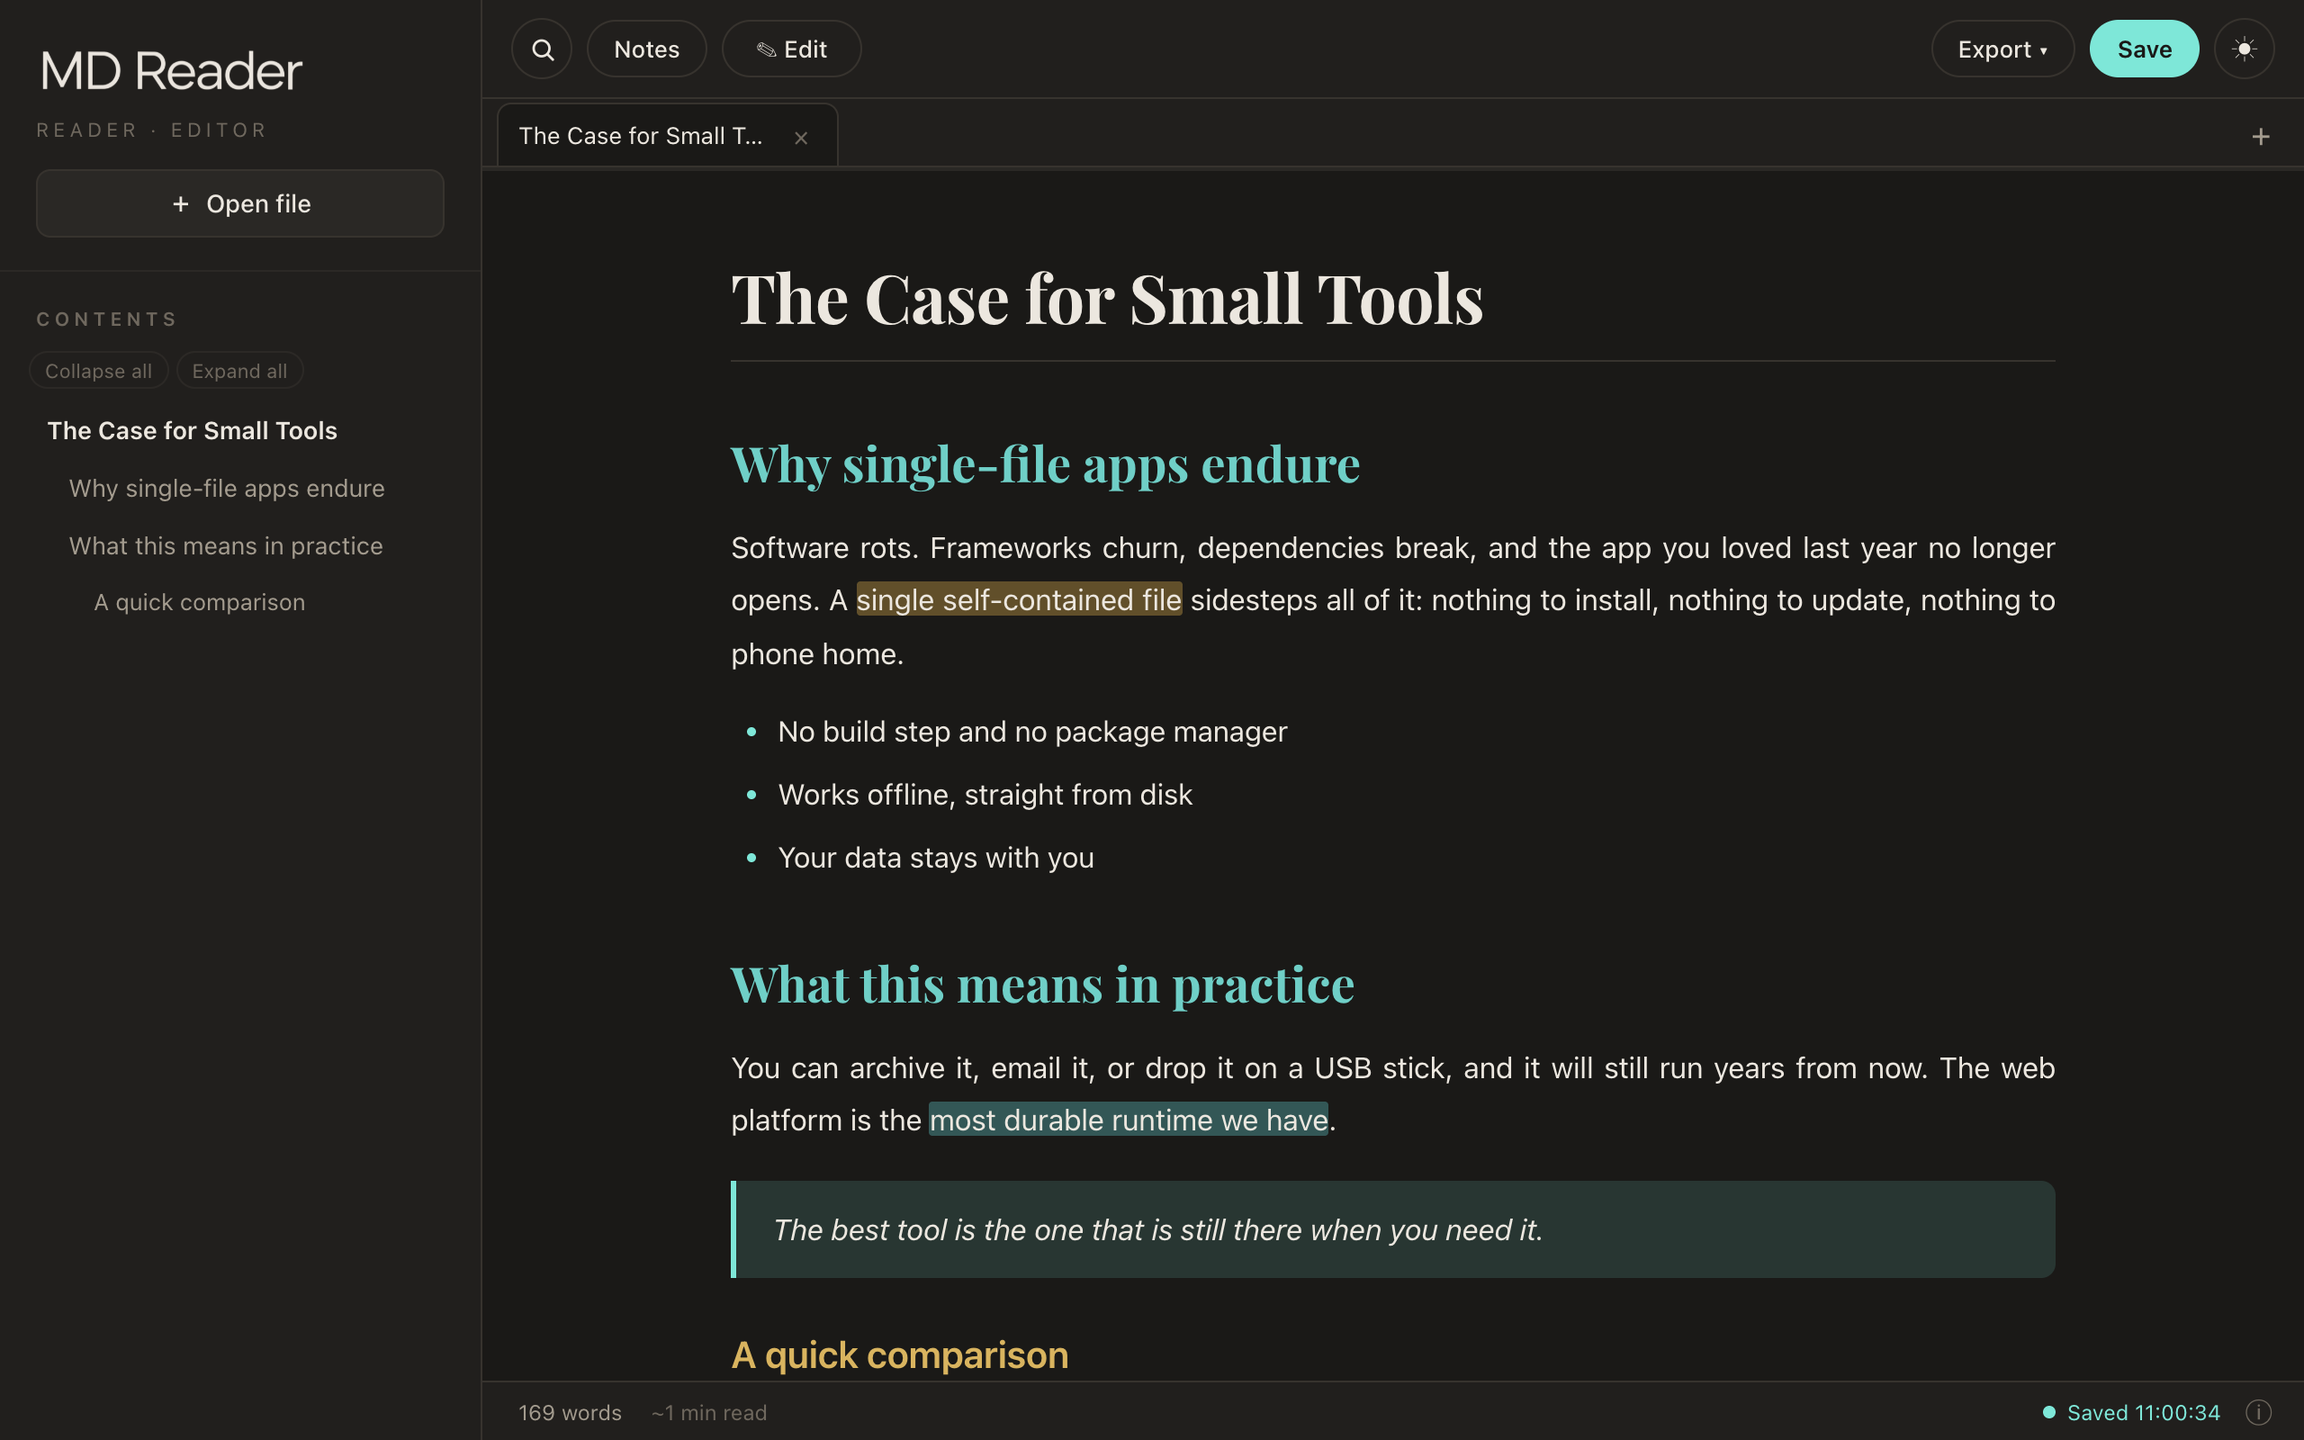
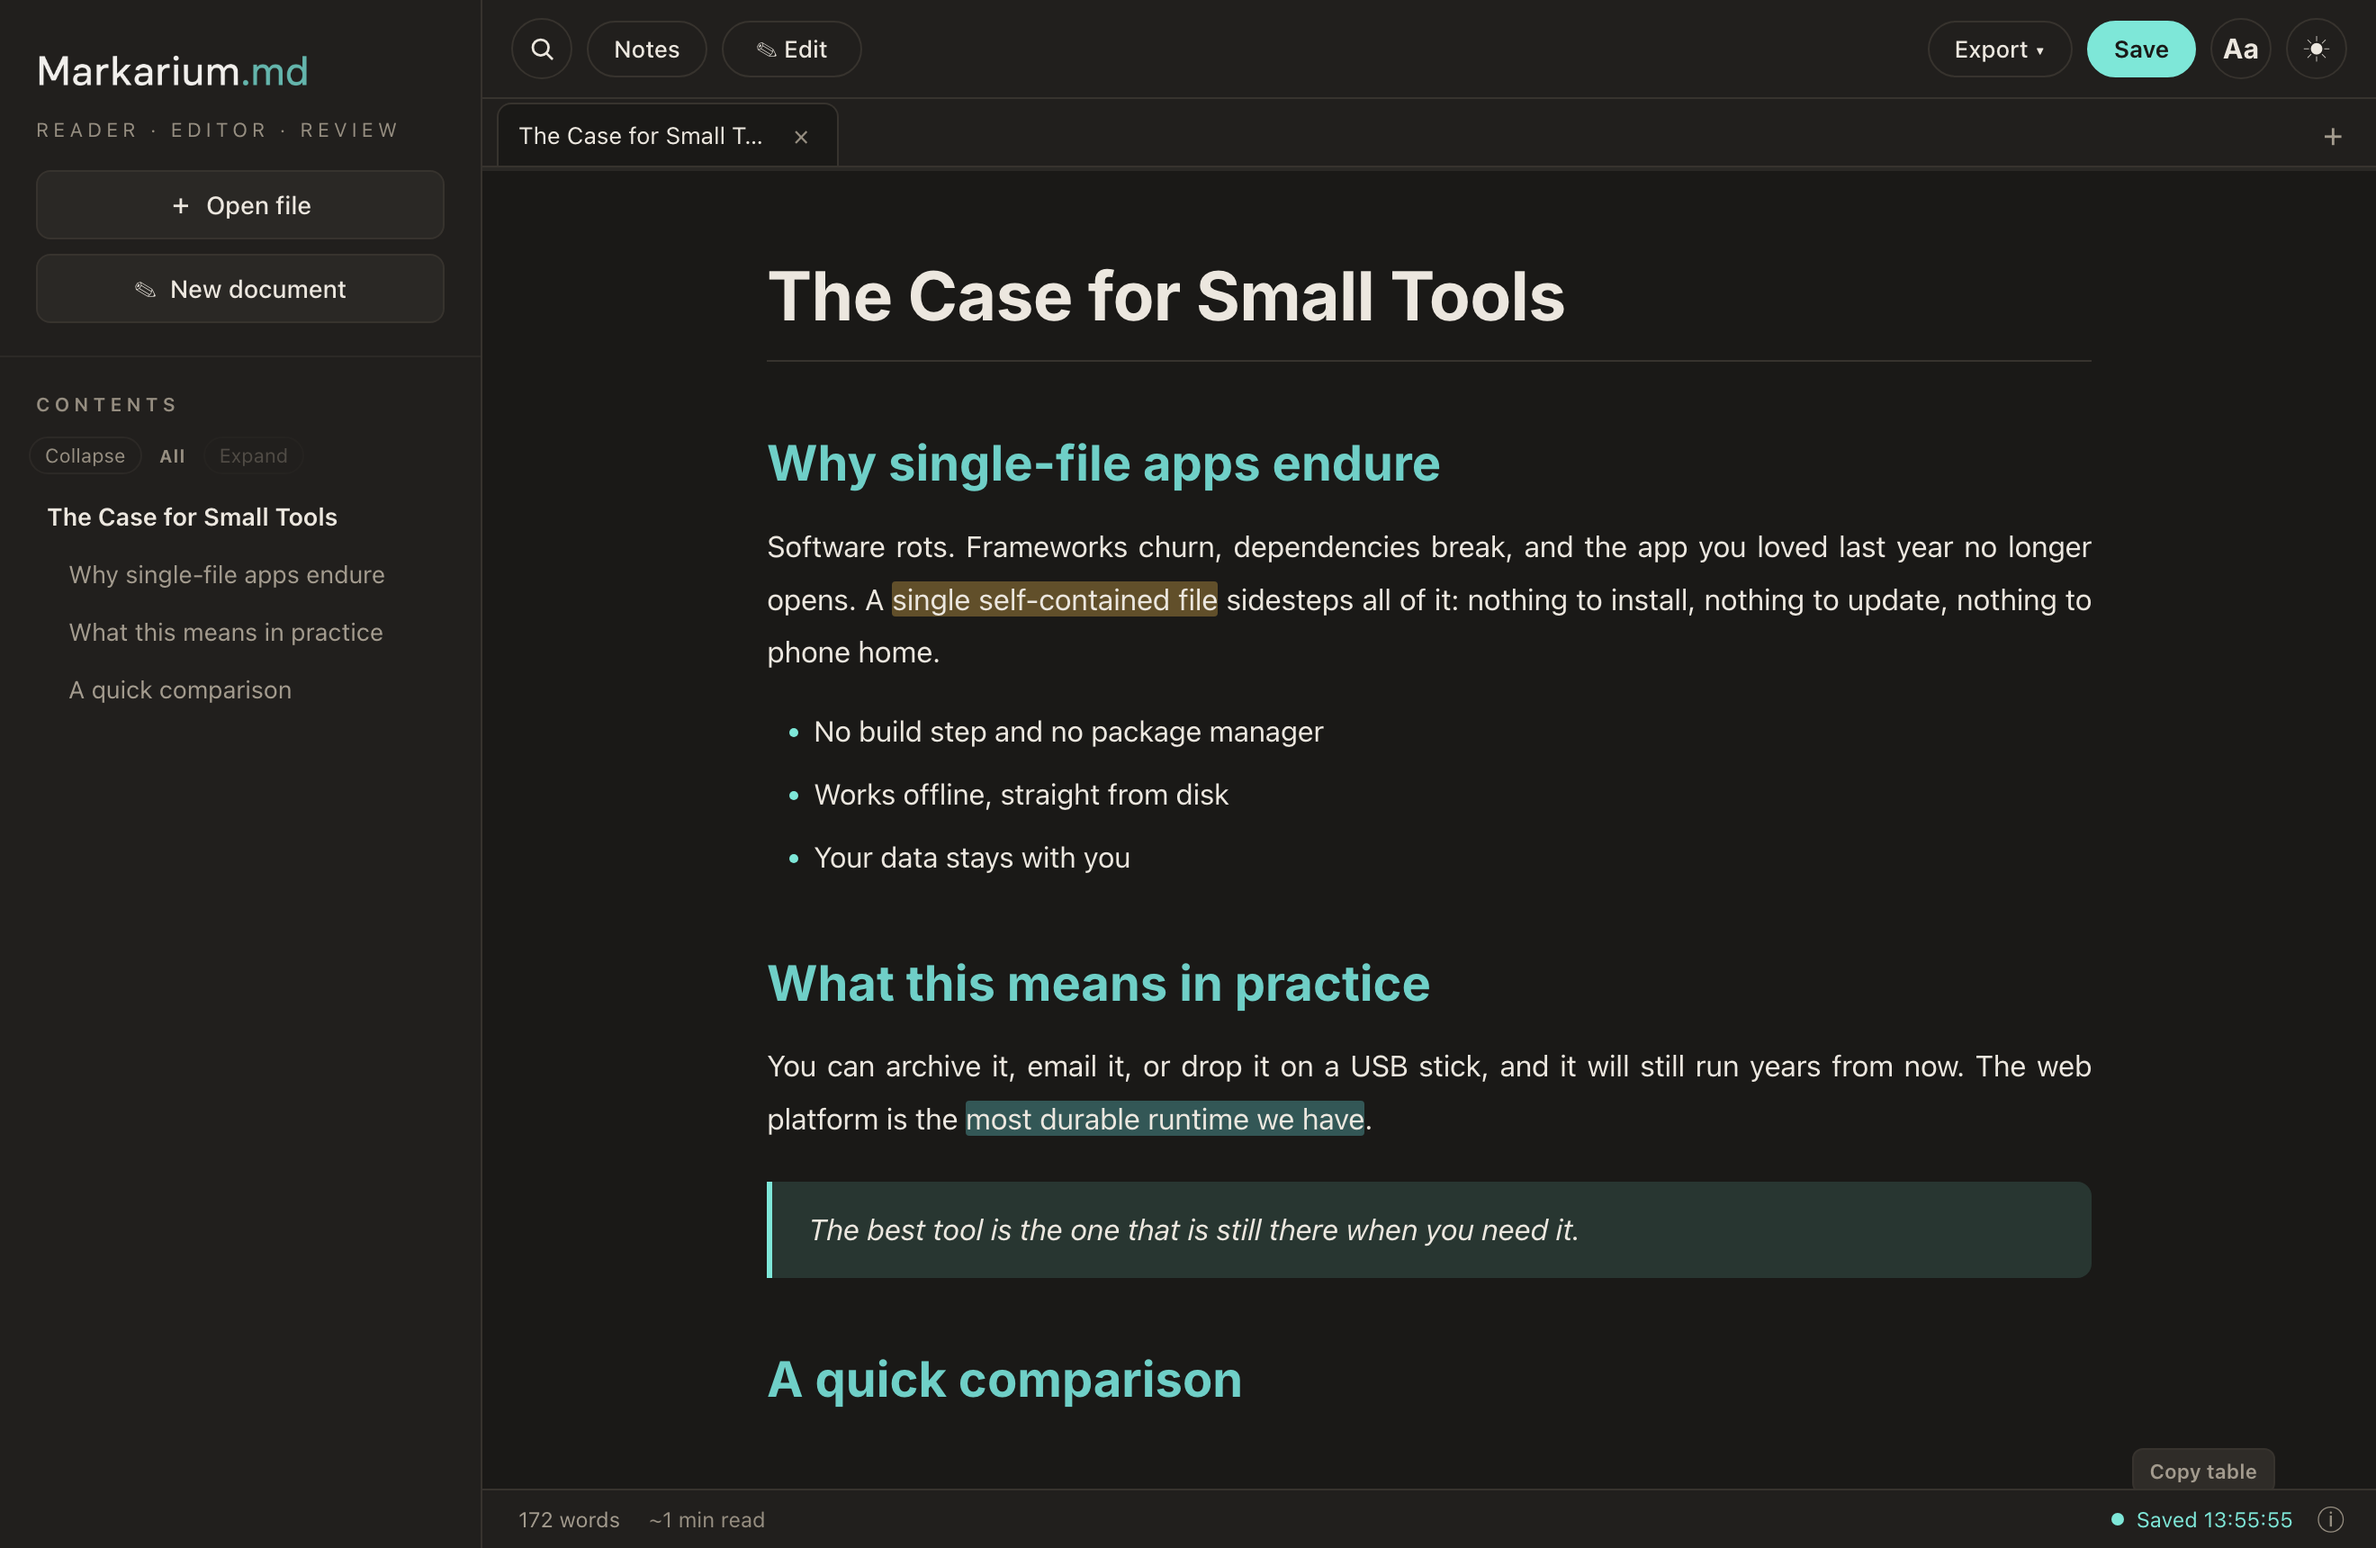
Refresh screenshots with Markarium.md branding in dark and light themes; tidy README em dashes
- Regenerated the hero screenshot in the new brand (Inter headings, Markarium.md, review highlights)
- Added a light-theme screenshot; README now shows both themes
- Removed the old pre-rebrand screenshots
- Replaced README em dashes with colons/periods per house style

diff --git a/index.html b/index.html
@@ -1238,7 +1238,7 @@
                         <h1>Read &amp; annotate markdown</h1>
                         <button class="welcome-open-btn" type="button">＋&nbsp; Open a Markdown file</button>
                         <p>… or drag and drop a <code>.md</code> file anywhere on this window.</p>
-                        <p class="welcome-hint">Comment and turn notes into tasks, then hand them to a teammate or an AI agent to act on — or take in theirs. Nothing leaves your device.</p>
+                        <p class="welcome-hint">Comment and turn notes into tasks, then hand them to a teammate or an AI agent to act on, or take in theirs. Nothing leaves your device.</p>
                     </div>
                 </div>
             </div>
@@ -1700,7 +1700,7 @@
                     <h1>Read &amp; annotate markdown</h1>
                     <button class="welcome-open-btn" type="button">＋&nbsp; Open a Markdown file</button>
                     <p>… or drag and drop a <code>.md</code> file anywhere on this window.</p>
-                    <p class="welcome-hint">Comment and turn notes into tasks, then hand them to a teammate or an AI agent to act on — or take in theirs. Nothing leaves your device.</p>
+                    <p class="welcome-hint">Comment and turn notes into tasks, then hand them to a teammate or an AI agent to act on, or take in theirs. Nothing leaves your device.</p>
                 </div>
             </div>`;
 

diff --git a/README.md b/README.md
@@ -24,7 +24,12 @@ Read, annotate and edit Markdown in your browser. Hand your comments to a teamma
 </p>
 
 <p align="center">
-  <img src="screenshot.png" alt="Markarium.md showing a Markdown document, outline and highlighted passages" width="900">
+  <img src="screenshot.png" alt="Markarium.md in the dark theme: a Markdown document with outline, highlights and review tools" width="860">
+</p>
+
+<p align="center">
+  <img src="screenshot-light.png" alt="Markarium.md in the light theme" width="860">
+  <br><em>Dark and light themes (also high-contrast and system).</em>
 </p>
 
 ## Use it
@@ -98,15 +103,15 @@ The complete bundled-component notices are in [`THIRD_PARTY_NOTICES.md`](THIRD_P
 
 ## Project documentation
 
-- [`FEATURES.md`](FEATURES.md) — capability catalogue and standalone/app boundary
-- [`ACCESSIBILITY.md`](ACCESSIBILITY.md) — implemented support, verification and known boundaries
-- [`CHANGELOG.md`](CHANGELOG.md) — public release history
-- [`SECURITY.md`](SECURITY.md) — private vulnerability reporting and security boundary
-- [`CONTRIBUTING.md`](CONTRIBUTING.md) — contribution and verification expectations
-- [`AGENTS.md`](AGENTS.md) — constraints for coding agents working in this repository
+- [`FEATURES.md`](FEATURES.md): capability catalogue and standalone/app boundary
+- [`ACCESSIBILITY.md`](ACCESSIBILITY.md): implemented support, verification and known boundaries
+- [`CHANGELOG.md`](CHANGELOG.md): public release history
+- [`SECURITY.md`](SECURITY.md): private vulnerability reporting and security boundary
+- [`CONTRIBUTING.md`](CONTRIBUTING.md): contribution and verification expectations
+- [`AGENTS.md`](AGENTS.md): constraints for coding agents working in this repository
 
 ## License
 
-**Free for noncommercial use** — read it, use it, modify it and share it. Commercial use, including selling it or a derivative, is not permitted. See the [PolyForm Noncommercial License 1.0.0](LICENSE).
+**Free for noncommercial use.** Read it, use it, modify it and share it. Commercial use, including selling it or a derivative, is not permitted. See the [PolyForm Noncommercial License 1.0.0](LICENSE).
 
 &copy; 2026 Zoya Slavina
